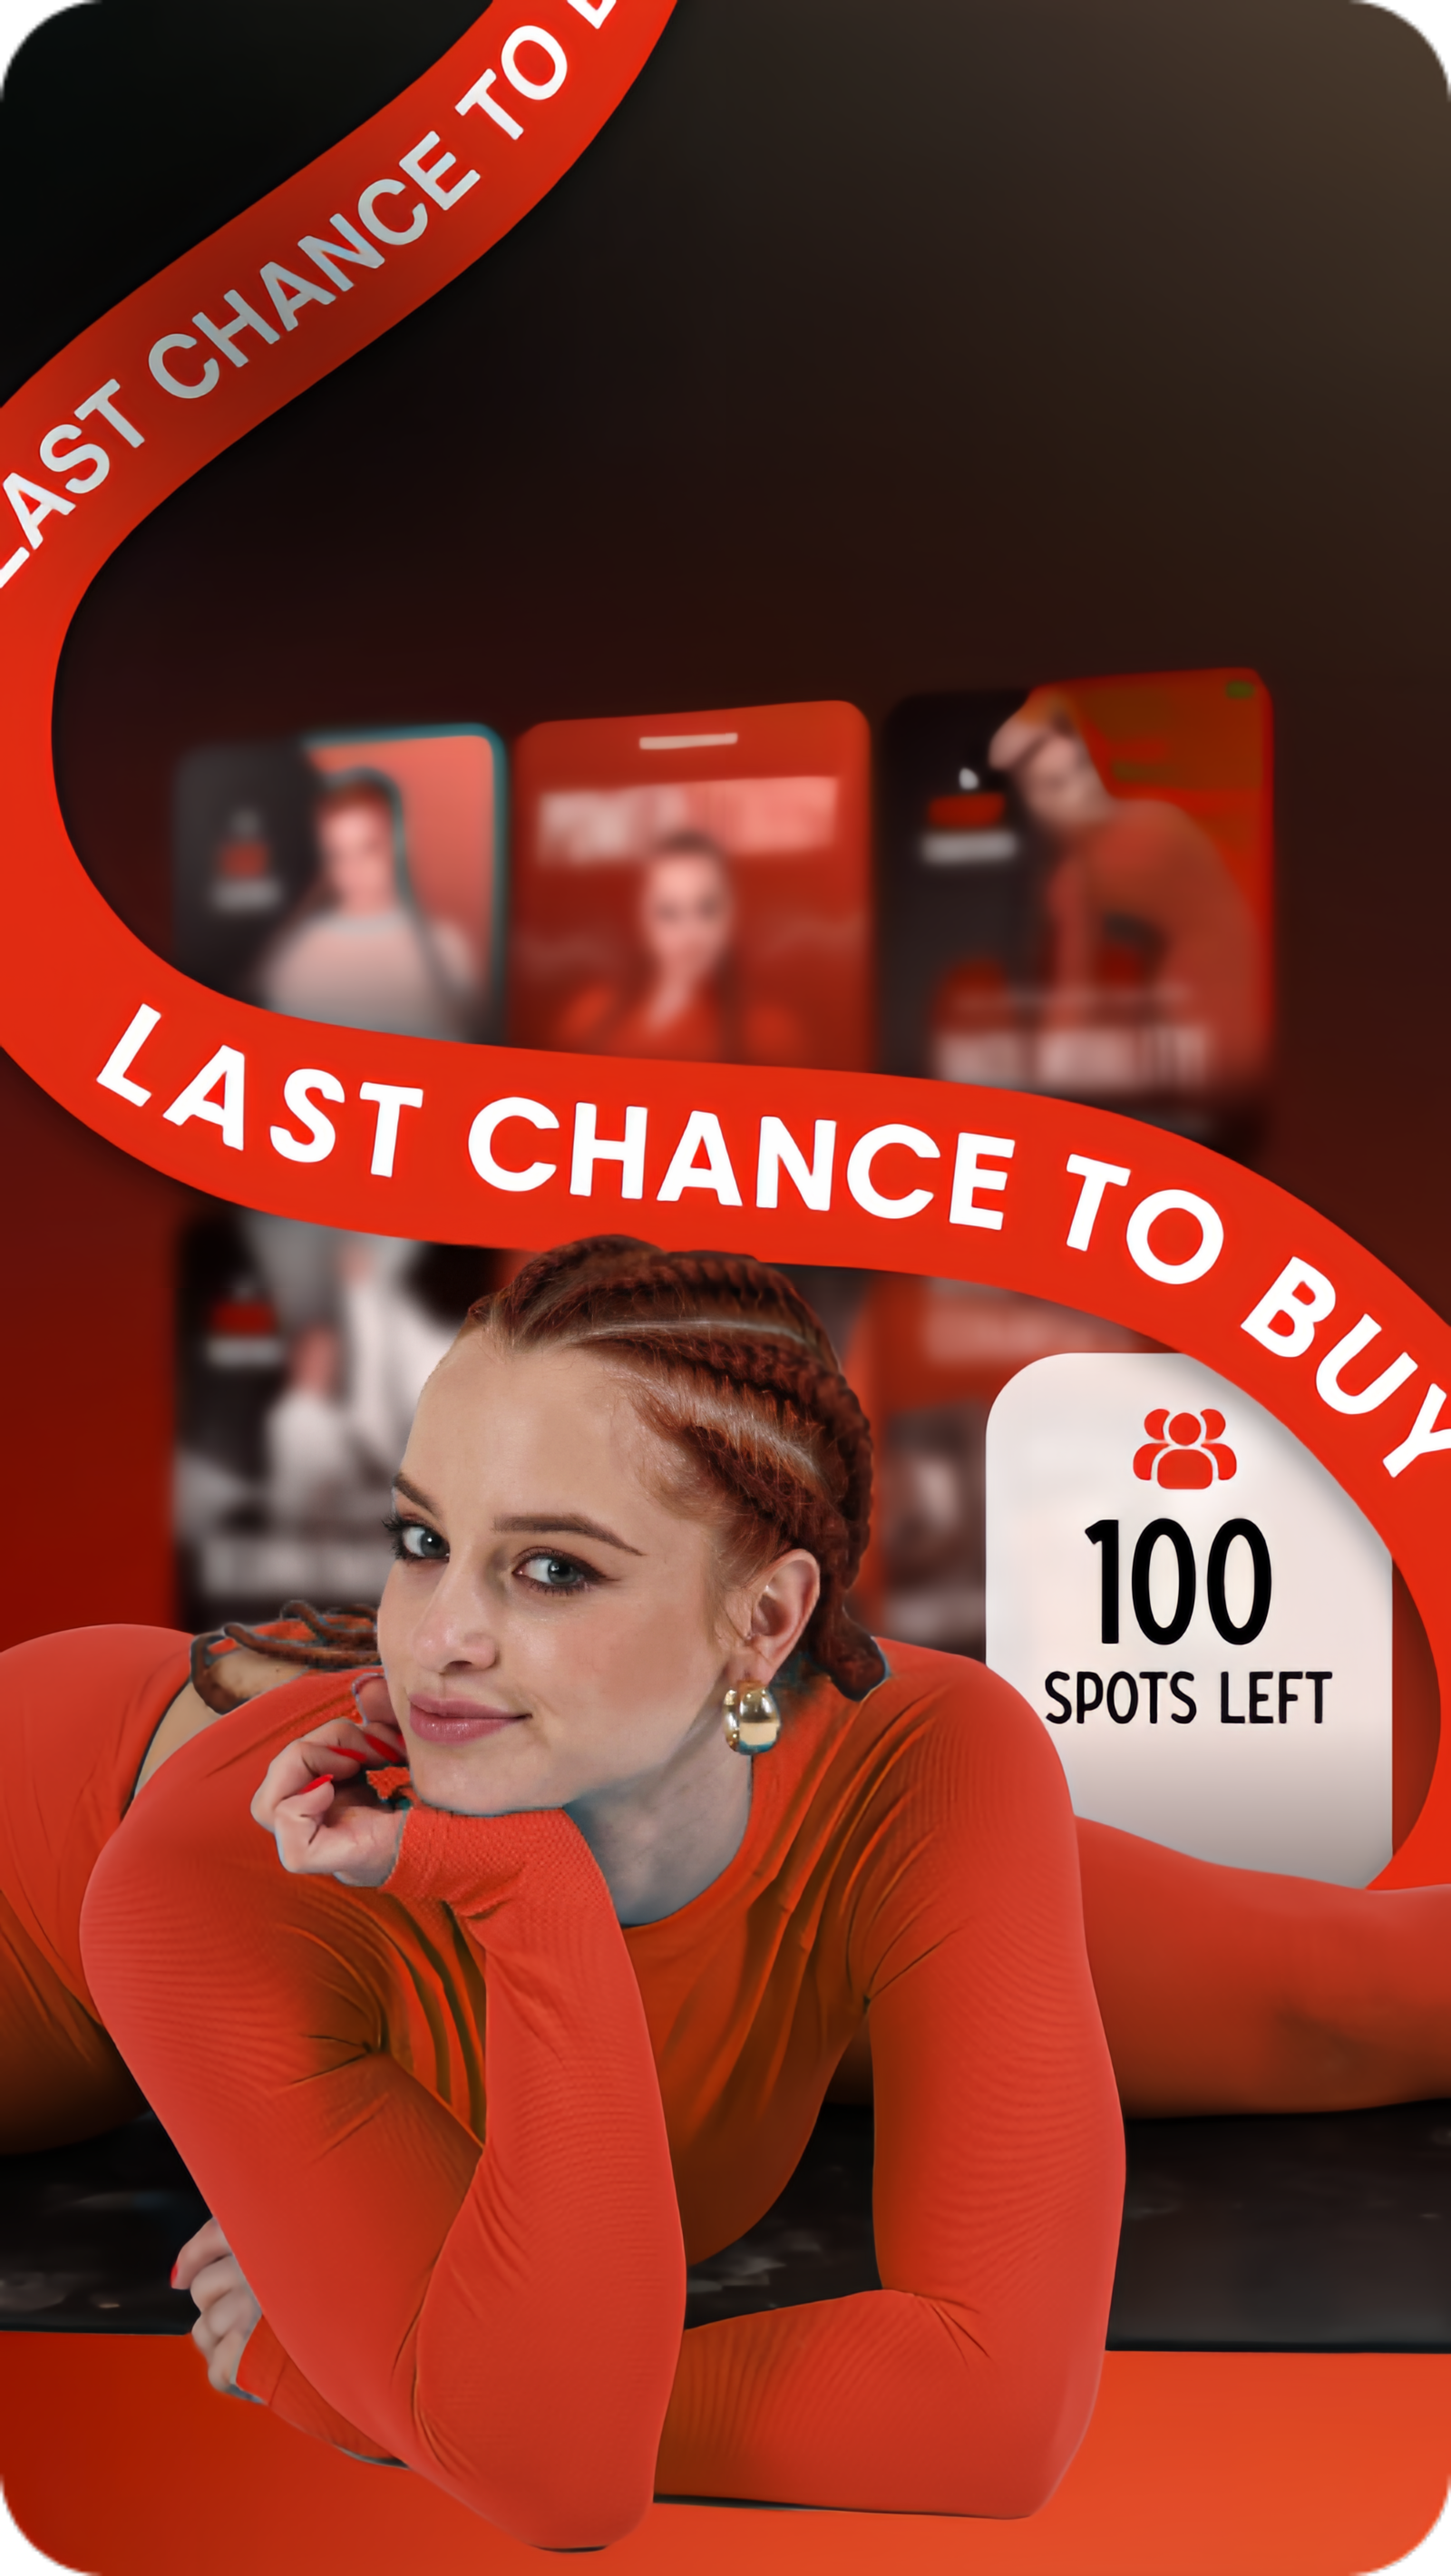
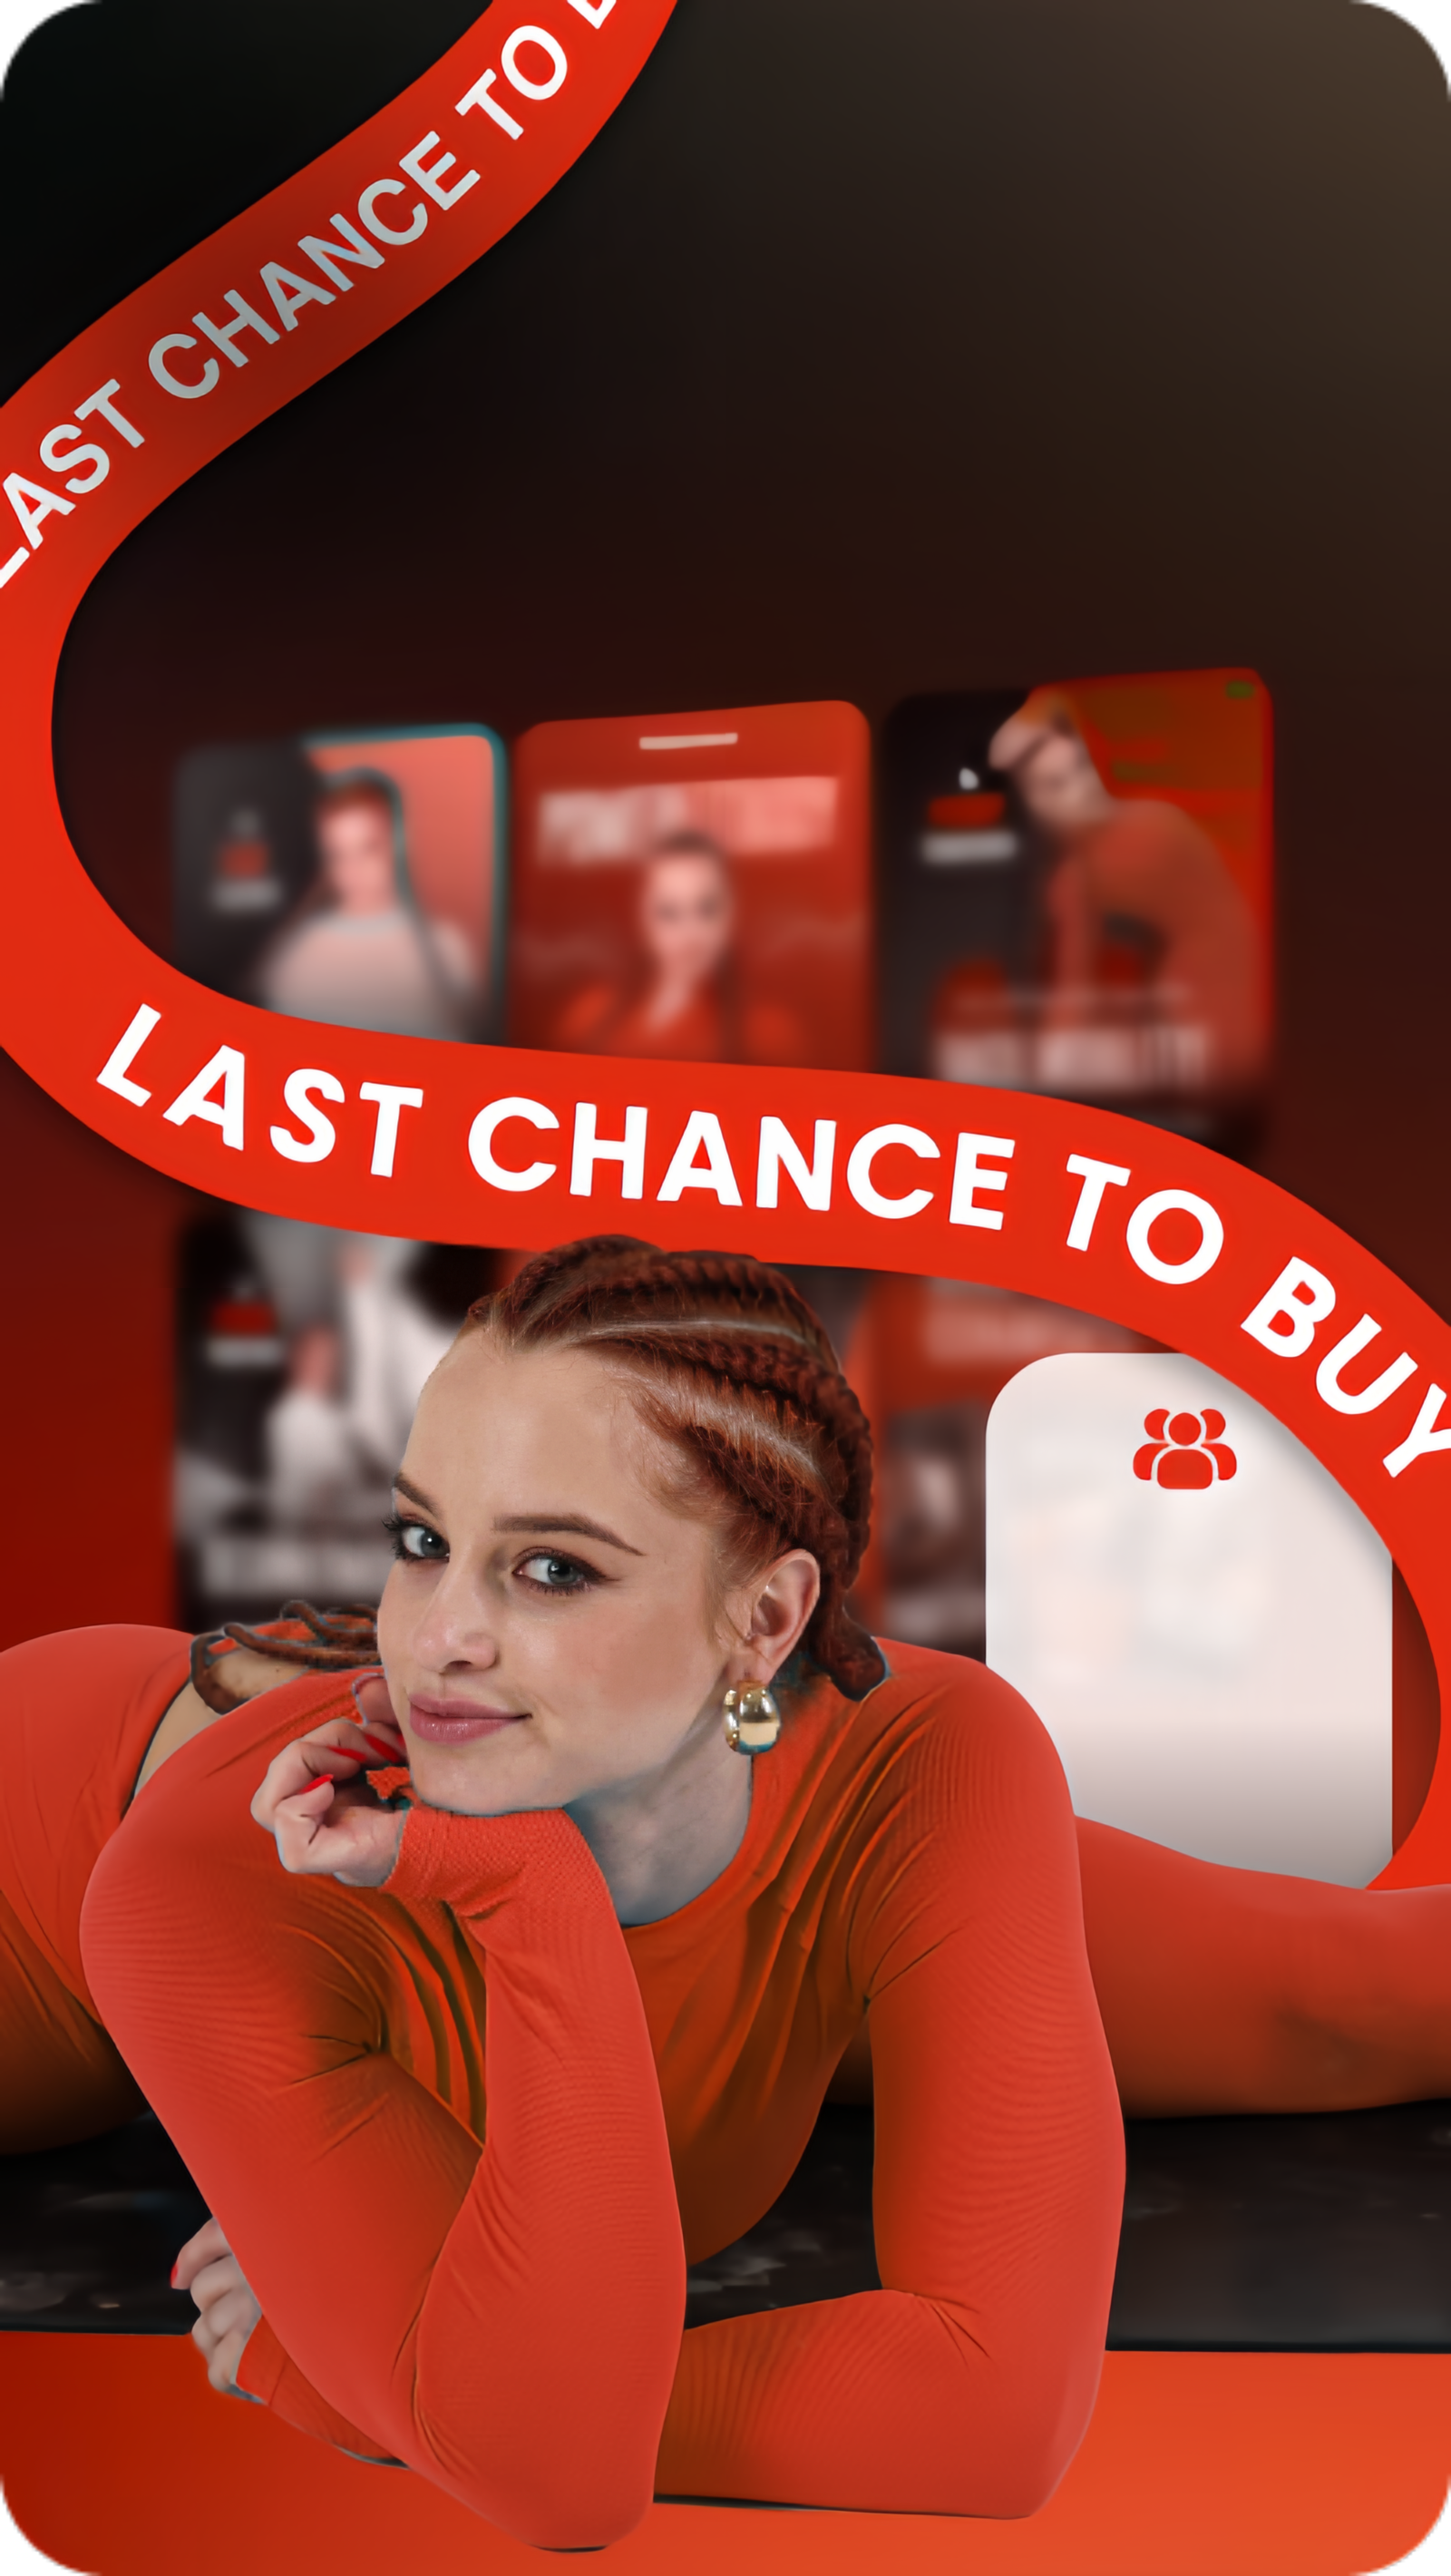
first commit

Changed region(s): [[0.7188, 0.5887, 0.9375, 0.6817]]

diff --git a/css/style.css b/css/style.css
@@ -1,5 +1,3 @@
-
-
 .header {
     padding: 0 15px;
 }
@@ -12,7 +10,7 @@
     min-height: 710px;
     background-image: url(../images/headerFon.png);
     background-repeat: no-repeat;
-    background-position: bottom center;
+    background-position: bottom right;
     background-size: cover;
     display: flex;
     flex-direction: column;
@@ -20,7 +18,7 @@
     align-items: center;
 }
 
-.title{
+.title {
     position: absolute;
     top: 15%;
     font-weight: 400;
@@ -78,14 +76,14 @@
     align-items: center;
 }
 
-.header--content-price-right p{
+.header--content-price-right p {
     font-weight: 400;
     font-size: 14px;
     line-height: 134%;
     color: #fff;
 }
 
-.header--content-price-right h2{
+.header--content-price-right h2 {
     font-weight: 400;
     font-size: 30px;
     line-height: 133%;
@@ -94,7 +92,7 @@
     color: #fff;
 }
 
-.header--content-price-right h2::before{
+.header--content-price-right h2::before {
     content: "";
     position: absolute;
     left: 0;
@@ -123,14 +121,14 @@
     justify-content: center;
 }
 
-.discount{
+.discount {
     background-image: url(../images/fon-2.svg);
     background-repeat: no-repeat;
     background-size: contain;
     padding: 50px 0;
 }
 
-.discount-title{
+.discount-title {
     font-weight: 400;
     font-size: 35px;
     line-height: 145%;
@@ -145,7 +143,7 @@
     height: 56px;
 }
 
-.discount-subTitle{
+.discount-subTitle {
     font-weight: 500;
     font-size: 18px;
     line-height: 121%;
@@ -155,16 +153,16 @@
     color: #fff;
 }
 
-.discount-subTitle span{
+.discount-subTitle span {
     color: #e62e14;
 }
 
-.buttonAccessSecond{
+.buttonAccessSecond {
     margin: 100px auto 0 auto;
     position: relative;
 }
 
-.buttonAccessSecond::before{
+.buttonAccessSecond::before {
     content: "";
     display: block;
     position: absolute;
@@ -177,7 +175,7 @@
     height: 120px;
 }
 
-.count{
+.count {
     font-weight: 700;
     font-size: 12px;
     line-height: 70%;
@@ -194,4 +192,35 @@
     position: absolute;
     top: 20px;
     right: 20px;
+}
+
+.spotsCount {
+    display: flex;
+    align-items: center;
+    flex-direction: column;
+    justify-content: center;
+    position: absolute;
+    right: 35px;
+    bottom: 225px;
+}
+
+.spotsCount-value {
+    font-weight: 400;
+    font-size: 48px;
+    line-height: 50px;
+    letter-spacing: -2px;
+    padding-right: 5px;
+    text-transform: uppercase;
+    text-align: center;
+    color: #000;
+}
+
+.spotsCount-title {
+    font-weight: 400;
+    font-size: 16px;
+    line-height: 25px;
+    letter-spacing: -1px;
+    text-transform: uppercase;
+    text-align: center;
+    color: #000;
 }

diff --git a/js/app.js b/js/app.js
@@ -1,5 +1,5 @@
 (function() {
-    const startDays = 5;
+    const startDays = 10;
     const countEl = document.querySelector('.count');
 
     // Отримуємо дані з кешу
@@ -45,3 +45,49 @@
     // Перевіряємо кожну хвилину (достатньо)
     setInterval(updateCountdown, 60 * 1000);
 })();
+
+
+(function() {
+    const totalDays = 10;
+const startValue = 100;
+
+// Отримуємо елемент
+const counterEl = document.querySelector('.spotsCount-value');
+
+// Перевіряємо, чи вже є записана дата старту та початкове значення
+let savedData = localStorage.getItem('spotsCounter');
+let startDate, currentValue;
+
+if (savedData) {
+  savedData = JSON.parse(savedData);
+  startDate = new Date(savedData.startDate);
+  currentValue = savedData.currentValue;
+} else {
+  startDate = new Date(); // сьогодні
+  currentValue = startValue;
+}
+
+// Функція для оновлення лічильника
+function updateCounter() {
+  const now = new Date();
+  const diffTime = now - startDate; // різниця в мс
+  const diffDays = diffTime / (1000 * 60 * 60 * 24); // переводимо в дні
+
+  // Розрахунок нового значення
+  const newValue = Math.max(Math.round(startValue - (startValue * (diffDays / totalDays))), 0);
+
+  counterEl.textContent = newValue;
+
+  // Зберігаємо у localStorage
+  localStorage.setItem('spotsCounter', JSON.stringify({
+    startDate: startDate,
+    currentValue: newValue
+  }));
+}
+
+// Оновлюємо при завантаженні сторінки
+updateCounter();
+
+// За потреби можна оновлювати кожну годину (щоб був плавний рух без перезавантаження)
+setInterval(updateCounter, 60 * 60 * 1000);
+})

diff --git a/index.html b/index.html
@@ -12,11 +12,15 @@
     <header class="header">
         <div class="header--content">
             <div class="count">
-                Offer expires in 5 days
+                Offer expires in 10 days
             </div>
             <h1 class="title">
                 lifetime access<br>to all programs
             </h1>
+            <div class="spotsCount">
+                <h2 class="spotsCount-value">100</h2>
+                <p class="spotsCount-title">SPOTS left</p>
+            </div>
             <div class="header--content-price">
                 <div class="header--content-price-left">
                     <h3 class="header--content-price-left-title">
